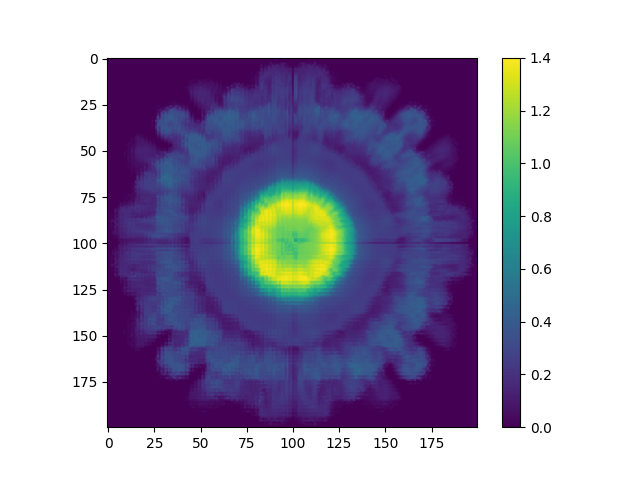
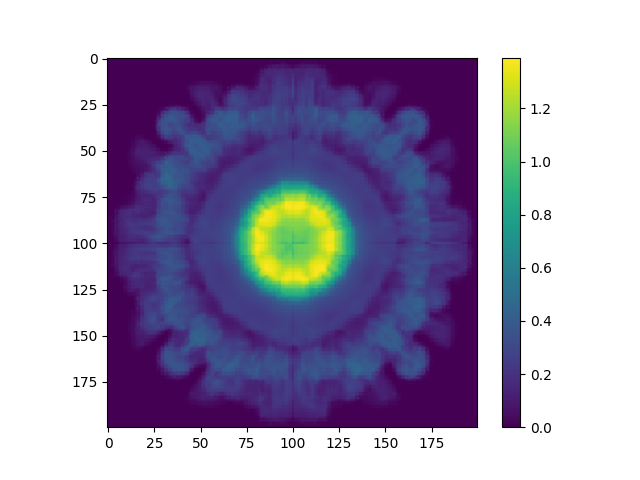
Fixed Voxel Traversal

diff --git a/Raytracer/Marcher.py b/Raytracer/Marcher.py
@@ -5,21 +5,30 @@ class Marcher:
     def __init__(self, bottom_left, top_right, volumefilepath):
         self.lowest = np.array([0,0,0])
         self.bottom_left = bottom_left
+        self.top_right = top_right
         self.volume = np.load(volumefilepath)
         self.voxel_counts = np.shape(self.volume)
         self.voxel_counts = np.array([self.voxel_counts[0], self.voxel_counts[1], self.voxel_counts[2]])
-        self.voxel_size = (top_right - self.bottom_left)/self.voxel_counts
+        self.voxel_size = (self.top_right - self.bottom_left)/self.voxel_counts
         pass
 
     def get_containing_voxel(self, point, direction):
         #calculate the steps for the direction
         steps = (direction < 0) * -2 + 1
+
         #claculate t values of direction to produce each of the voxel dimension sizes
         deltas = abs(np.divide(self.voxel_size,direction))
-        #find the maximum t vlues for the direction that can be moved before crossing a voxel
-        tmaxs = np.abs(np.divide((self.voxel_size-((point-self.bottom_left) % self.voxel_size)), direction))
+
         #find the voxel coord of the voxel that contains the point
         vox_coord = np.floor((point-self.bottom_left)/ self.voxel_size)
+
+        point_modulo = point % self.voxel_size
+
+        #find the maximum t vlues for the direction that can be moved before crossing a voxel
+        tmaxs = direction * 0
+        tmaxs[(direction < 0)] = point_modulo[(direction < 0)]
+        tmaxs[(direction > 0)] = self.voxel_size[(direction > 0)] - point_modulo[(direction > 0)]
+        
         return vox_coord, steps, deltas, tmaxs
 
     def trace_no_scaling(self, point, direction):
@@ -47,6 +56,7 @@ class Marcher:
                 out_of_range_count = out_of_range_count + 1
             if out_of_range_count == 4:
                 break
+        return total
 
     def trace_scaling(self, point, direction):
         index, steps, deltas, tmaxs = self.get_containing_voxel(point, direction)
@@ -65,10 +75,10 @@ class Marcher:
                     dim = 1
                 else:
                     dim = 2
+
             #if the voxel just traversed was in the volume, add the density of that voxel scaled by the distance travelled in that volume
             if not(np.any(index >= self.voxel_counts) or np.any(index < self.lowest)):
                 total = total + tmaxs[dim] * self.volume[int(index[0])][int(index[1])][int(index[2])]
-                # print(total)
 
             #increment the voxel coordinate
             index[dim] = index[dim] + steps[dim]

diff --git a/Raytracer/RayTracer.py b/Raytracer/RayTracer.py
@@ -9,8 +9,8 @@ image = []
 
 width = 200
 height = 200
-pos = np.array([4, 4, 2])
-up = np.array([0,0,1])
+pos = np.array([0, 0, 4])
+up = np.array([1,0,0])
 lookat = np.array([0,0,0])
 
 marcher = Marcher(np.array([-1,-1,-1]), np.array([1,1,1]), "../fluid_data_0083_numpy_array.npy")
@@ -33,8 +33,9 @@ with torch.no_grad():
                 ray = c.GenerateRay(x,y)
                 hit, t0, t1 = vol.intersect(ray)
                 if hit:
-                    image[y].append(marcher.trace_scaling(ray.o + t0* ray.d, ray.d))
-                    # qnet.Transform(ray.o + t0 * ray.d, ray.d)
+                    intersectionPoint = ray.o + t0* ray.d
+                    image[y].append(marcher.trace_scaling(intersectionPoint, ray.d))
+                    # qnet.Transform(intersectionPoint, ray.d)
                     # image[y].append(torch.sigmoid((qnet.apply(0, t1-t0) + (t1-t0))/2).item())
                 else:
                     image[y].append(-float('inf'))
